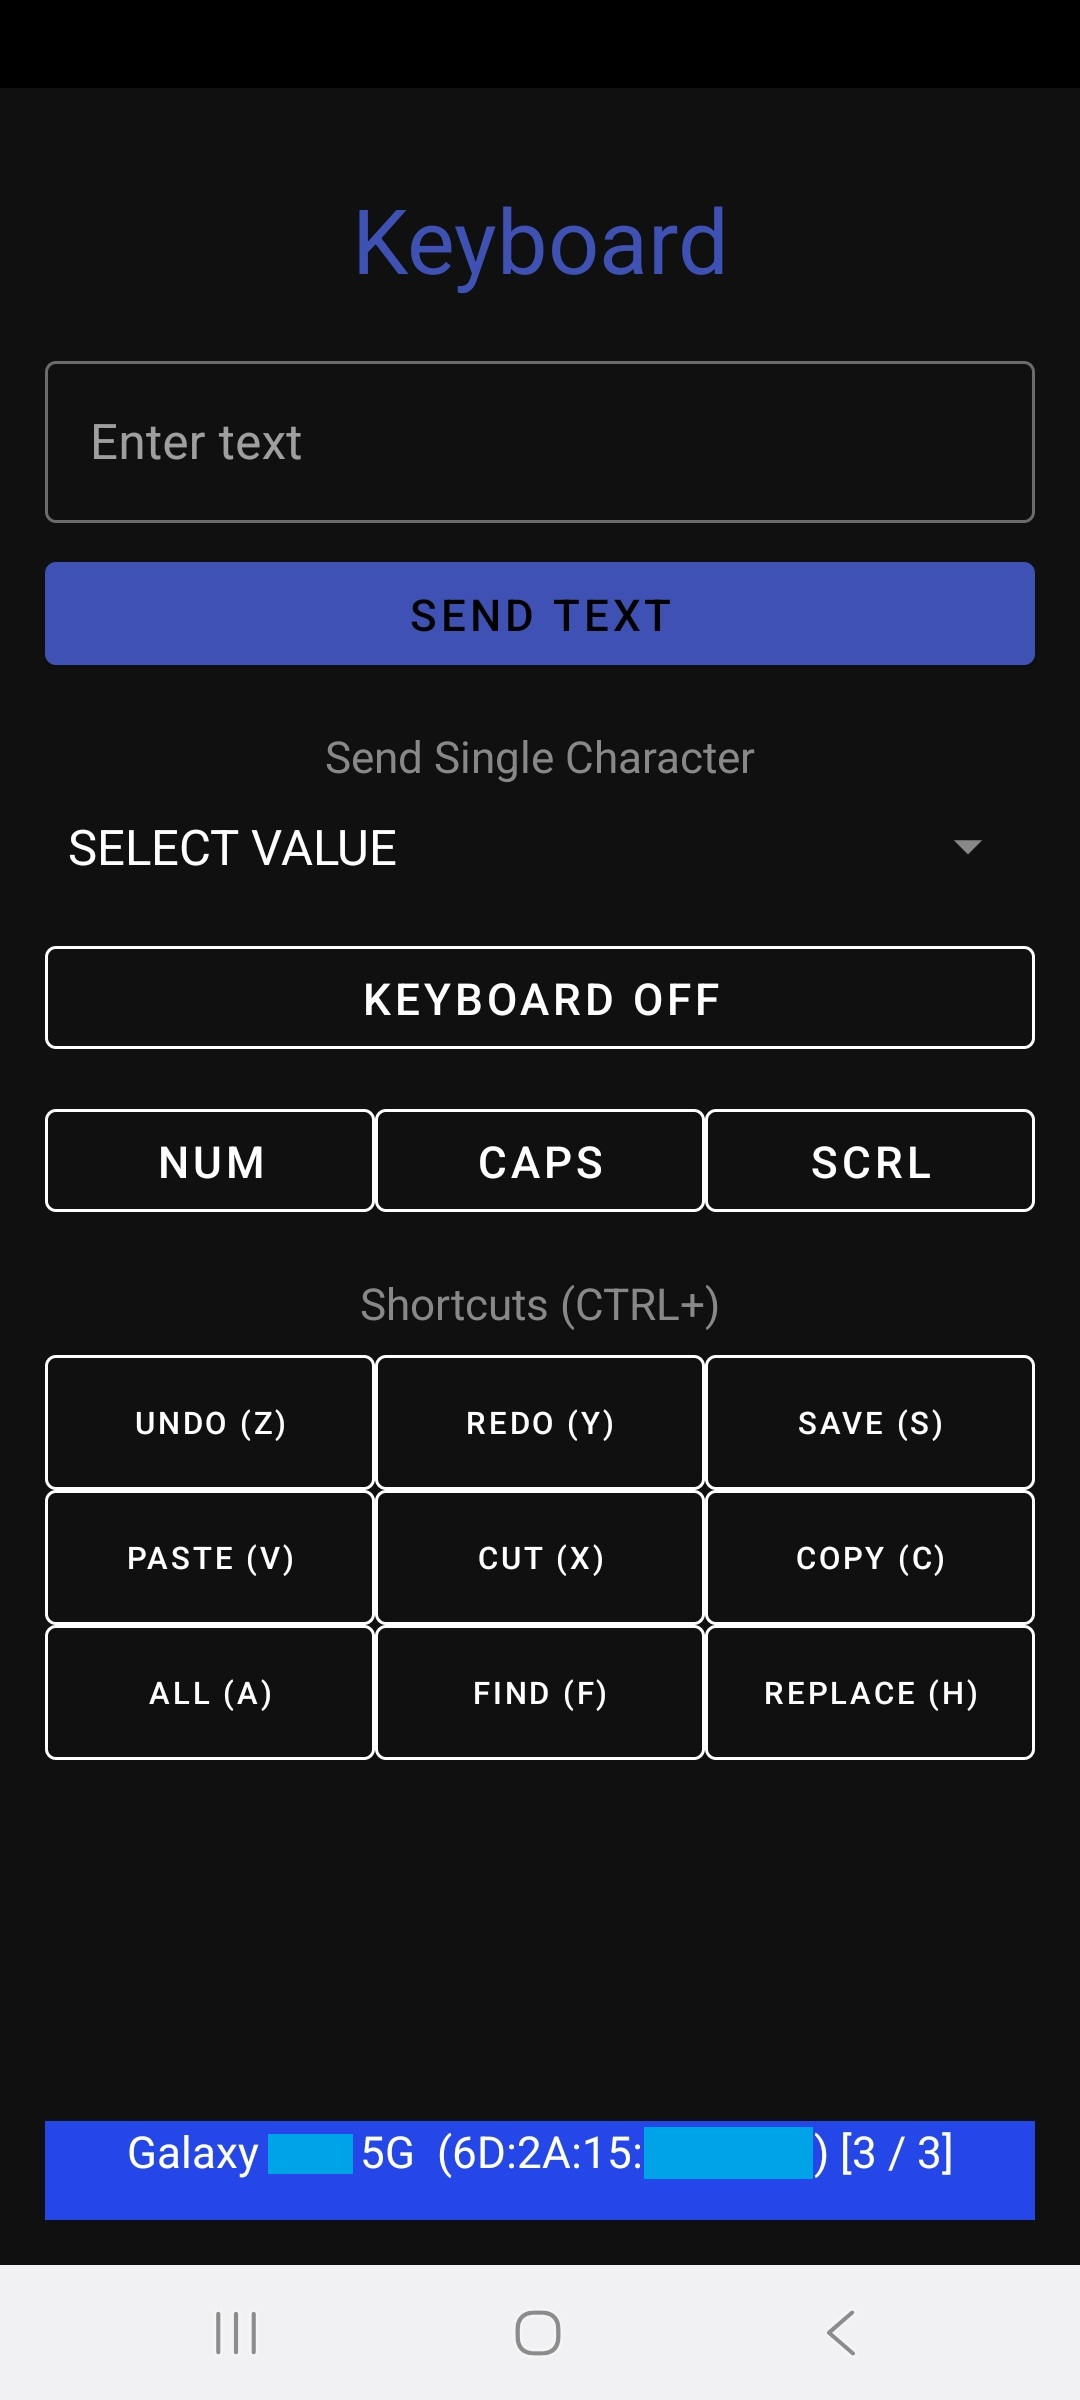
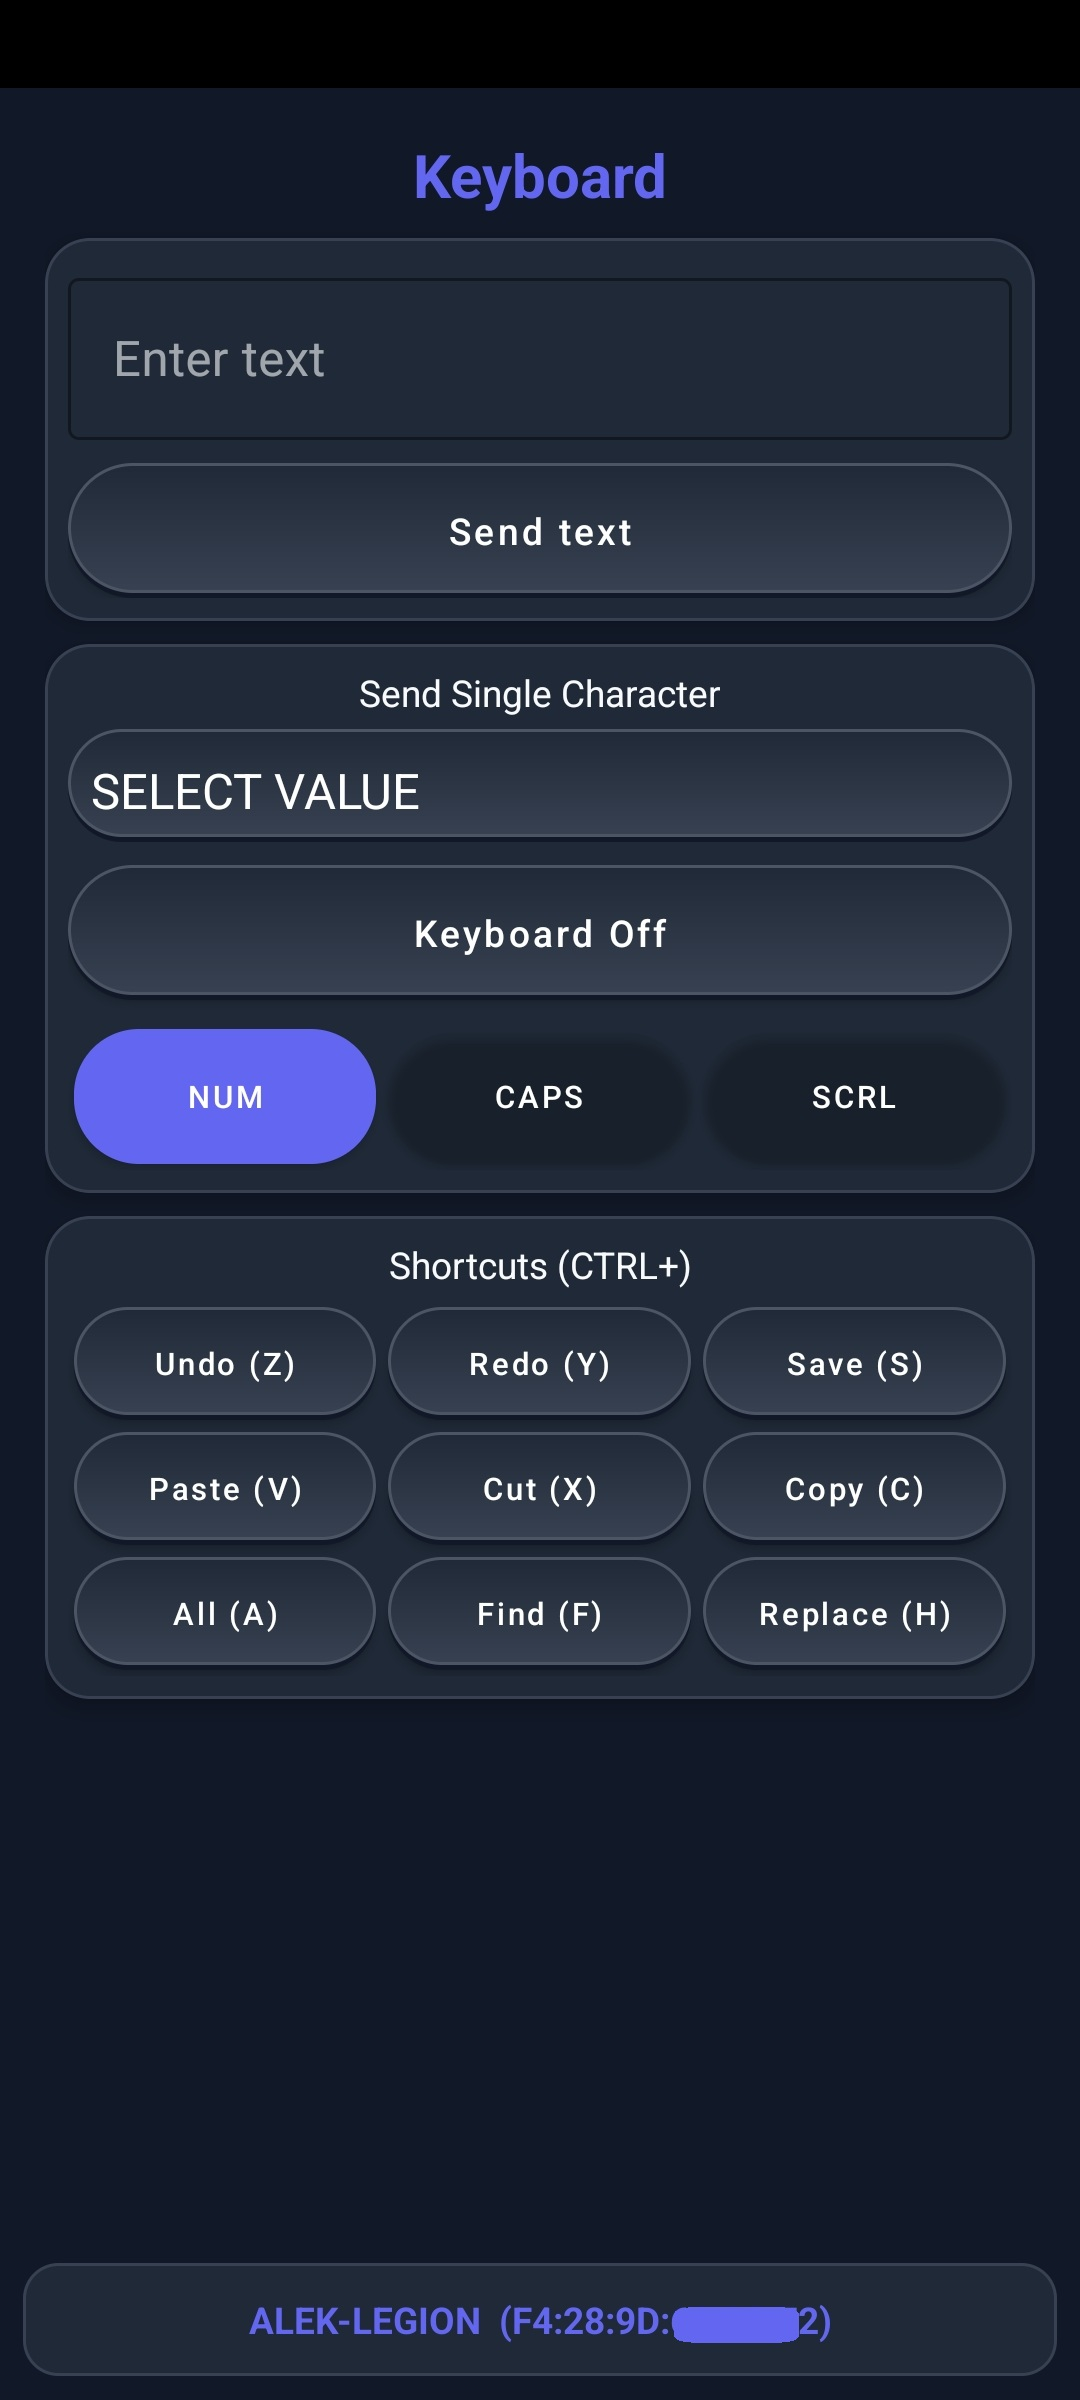
Release verstion 2.5
Update version number and readme content.

diff --git a/README.md b/README.md
@@ -1,14 +1,23 @@
 # BLE_HID_EXAMPLE
-Example of HID over GATT (Bluetooth Low Energy) Android Application. The application emulates a peripheral BLE device (mouse, keyboard, or remote) that can be connected to a PC, tablet, or smartphone.
+Example of HID over GATT (Bluetooth Low Energy) Android Application. The application emulates a peripheral BLE device (mouse, keyboard, gamepad, digitizer, and consumer remote) that can be connected to a PC, tablet, or smartphone.
 
-In version 2.0, the legacy "basic mode" has been removed to provide a unified, high-performance experience. The application consists of 5 full-screen fragments. When more than one device is connected, notifications are sent to all connected devices simultaneously.
+The application consists of 7 full-screen fragments. When more than one device is connected, notifications can be routed to all connected devices simultaneously or toggled individually per host.
+
+## Blockly fragment (Automation & Macros)
+![](screenshots/blockly.jpg)
+
+- **Visual Programming Workspace** - drag-and-drop Google Blockly interface to build custom HID macros and automated scripts.
+- **Rich Block Library** - includes blocks for keyboard text/keys, mouse movement, clicks, scrolling, absolute positioning, gamepad sticks/buttons, consumer media controls, delays, loops, and conditional logic.
+- **Run / Stop Execution** - execute programmed scripts in real-time or stop execution with a single tap.
+- **Save & Load** - save macros to internal storage and reload them whenever needed.
+- **Stash Bar** - quick access bar for frequently used blocks.
 
 ## Configuration fragment
 ![](screenshots/configuration.jpg)
 
 - **Reboot application button** - restarts the application and the Bluetooth stack. Useful for refreshing the connection state if any issues occur.
 - **Clear configs button** - deletes saved device pairings and configurations if connection issues occur.
-- **List of currently connected devices** - shows the names and addresses of all connected hosts.
+- **List of connected devices with toggles** - displays connected hosts with individual switches to enable or disable HID notification routing per device.
 
 ## Consumer control fragment
 ![](screenshots/consumer.jpg)
@@ -22,23 +31,48 @@ In version 2.0, the legacy "basic mode" has been removed to provide a unified, h
 ## Mouse fragment
 ![](screenshots/mouse.jpg)
 
-- **Buttons (1, 2, 3, 4, 5)** - emulates standard mouse button clicks.
+- **Buttons (1, 2, 3, 4, 5)** - emulates standard mouse button clicks (Left, Right, Middle, Button 4, Button 5).
 - **Touchpad area** - move the cursor; double-tap emulates a left-click.
-- **Volume buttons** - the phone's physical volume up/down buttons emulate the mouse scroll wheel.
+- **Horizontal Scroll bar** - smooth horizontal panning/scrolling (h-scroll / tilt wheel).
+- **Volume buttons** - the phone's physical volume up/down buttons emulate the vertical mouse scroll wheel.
 
 ## Keyboard fragment
-![](screenshots/keyboard.jpg) ![](screenshots/keyboard2.jpg)
+![](screenshots/keyboard.jpg)
 
 - **Send text** - type a phrase and send it to the computer all at once.
 - **Send character** - a dropdown list to select and send a single special character or function key.
-- **Keyboard shortcuts** - dedicated buttons for common actions like copy, paste, and select all.
-- **LED indicators** - shows and toggles the status of Caps Lock, Num Lock, and Scroll Lock received from the host.
-- **Keyboard On/Off** - enables or disables the software keyboard for direct character input.
+- **Keyboard shortcuts** - dedicated buttons for common actions like Ctrl+C, Ctrl+V, Ctrl+Z, Ctrl+A, and more.
+- **LED indicators** - shows the real-time status of Caps Lock, Num Lock, and Scroll Lock received from the host.
+- **Keyboard On/Off** - enables or disables the software keyboard for direct live typing with smart Caps Lock synchronization.
 
-## D-Pad fragment
-![](screenshots/d_pad.jpg)
+## Gamepad fragment
+![](screenshots/gamepad.jpg)
 
-- **Arrow buttons** - sends up/down/left/right arrow keys. Perfect for presentations or simple navigation.
+- **Dual Analog Sticks / D-Pad** - virtual L-Stick and R-Stick with octagonal bases, double-tap for L3/R3 clicks, and toggles to switch between analog stick or digital D-Pad / button modes.
+- **Action Buttons (BT0 - BT3)** - standard ABXY style action button diamond.
+- **Shoulder Buttons & Triggers** - dedicated LB, RB, LT, and RT buttons.
+- **Touchpad & System Keys** - integrated central touchpad area and MENU / START system buttons.
+- **Control Toggles** - independent toggles for L-Stick, Touchpad, Tab Swiping Lock, and R-Stick.
+
+## Absolute Mouse fragment
+![](screenshots/absolute_mouse.jpg)
+
+- **Full-Screen Touch Surface** - absolute 0–32767 coordinate mapping for touchscreen and digitizer emulation.
+- **Triple-Tap Exit** - triple-tap anywhere inside the touch frame to exit back to standard mouse mode.
+- **Physical Volume Buttons** - physical volume up/down buttons map to primary and secondary touch/click states.
+- **Real-Time Coordinate Feedback** - displays live X/Y absolute coordinates.
+
+---
+
+## What's new in version 2.5
+- **Blockly Visual Automation Engine:** Integrated Google Blockly for creating, editing, saving, and executing automated HID macros and scripts (keyboard, mouse, gamepad, consumer controls, delays, loops, and conditional logic) over BLE.
+- **Full Virtual Gamepad Mode:** Added a full-featured gamepad controller with dual analog sticks (L-Stick, R-Stick), D-Pad, L3/R3, ABXY buttons, LB/RB/LT/RT triggers, MENU/START, and an integrated touchpad.
+- **Absolute Mouse / Digitizer:** Introduced a dedicated full-screen absolute positioning mode (0–32767 range) for touchscreen/digitizer emulation with a triple-tap exit gesture.
+- **Horizontal Mouse Scroll:** Added horizontal scrolling/panning (h-scroll) support to the Mouse fragment.
+- **Per-Device Management:** Ability to toggle HID notifications on or off for individual connected Bluetooth hosts directly from the configuration screen.
+- **HID Battery Reporting:** Added Battery System HID report (Report ID 4) and live Battery Level service notifications.
+- **Smart Keyboard Typing:** Smart Caps Lock synchronization with automatic Shift XOR logic and seamless background text input.
+- **BLE Performance & Modern UI:** Implemented low-latency BLE connection requests (`HIGH_PRIORITY`) and redesigned the interface with a modern dark theme.
 
 ---
 
